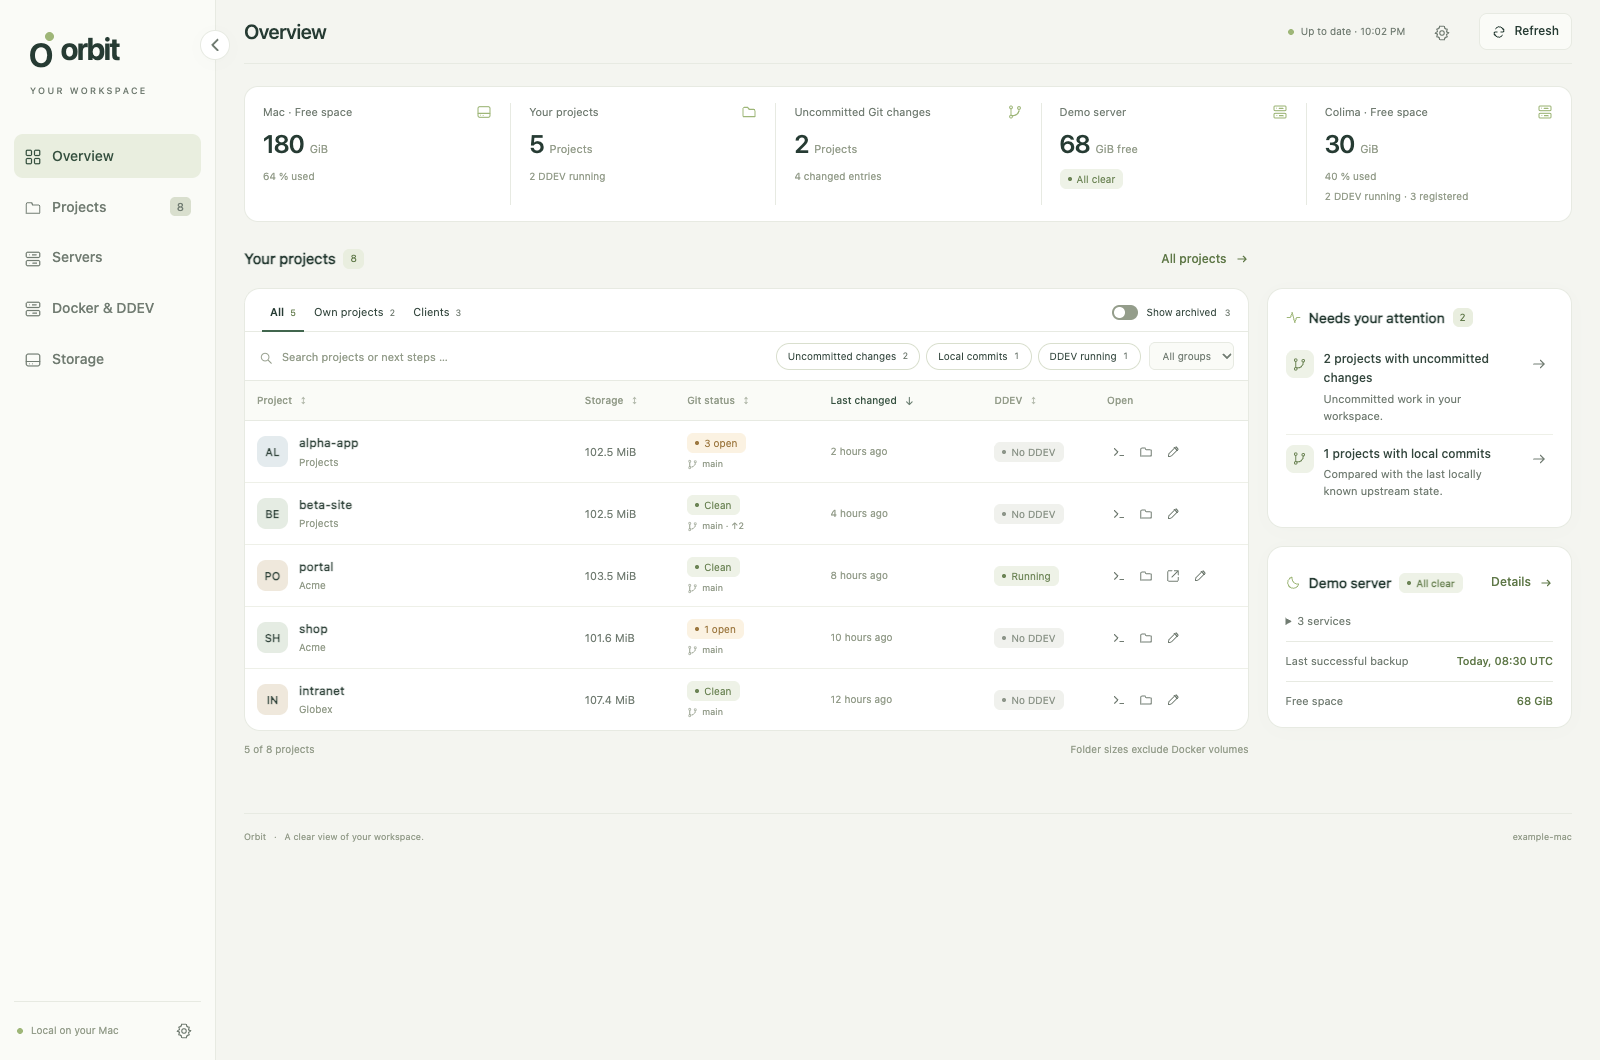
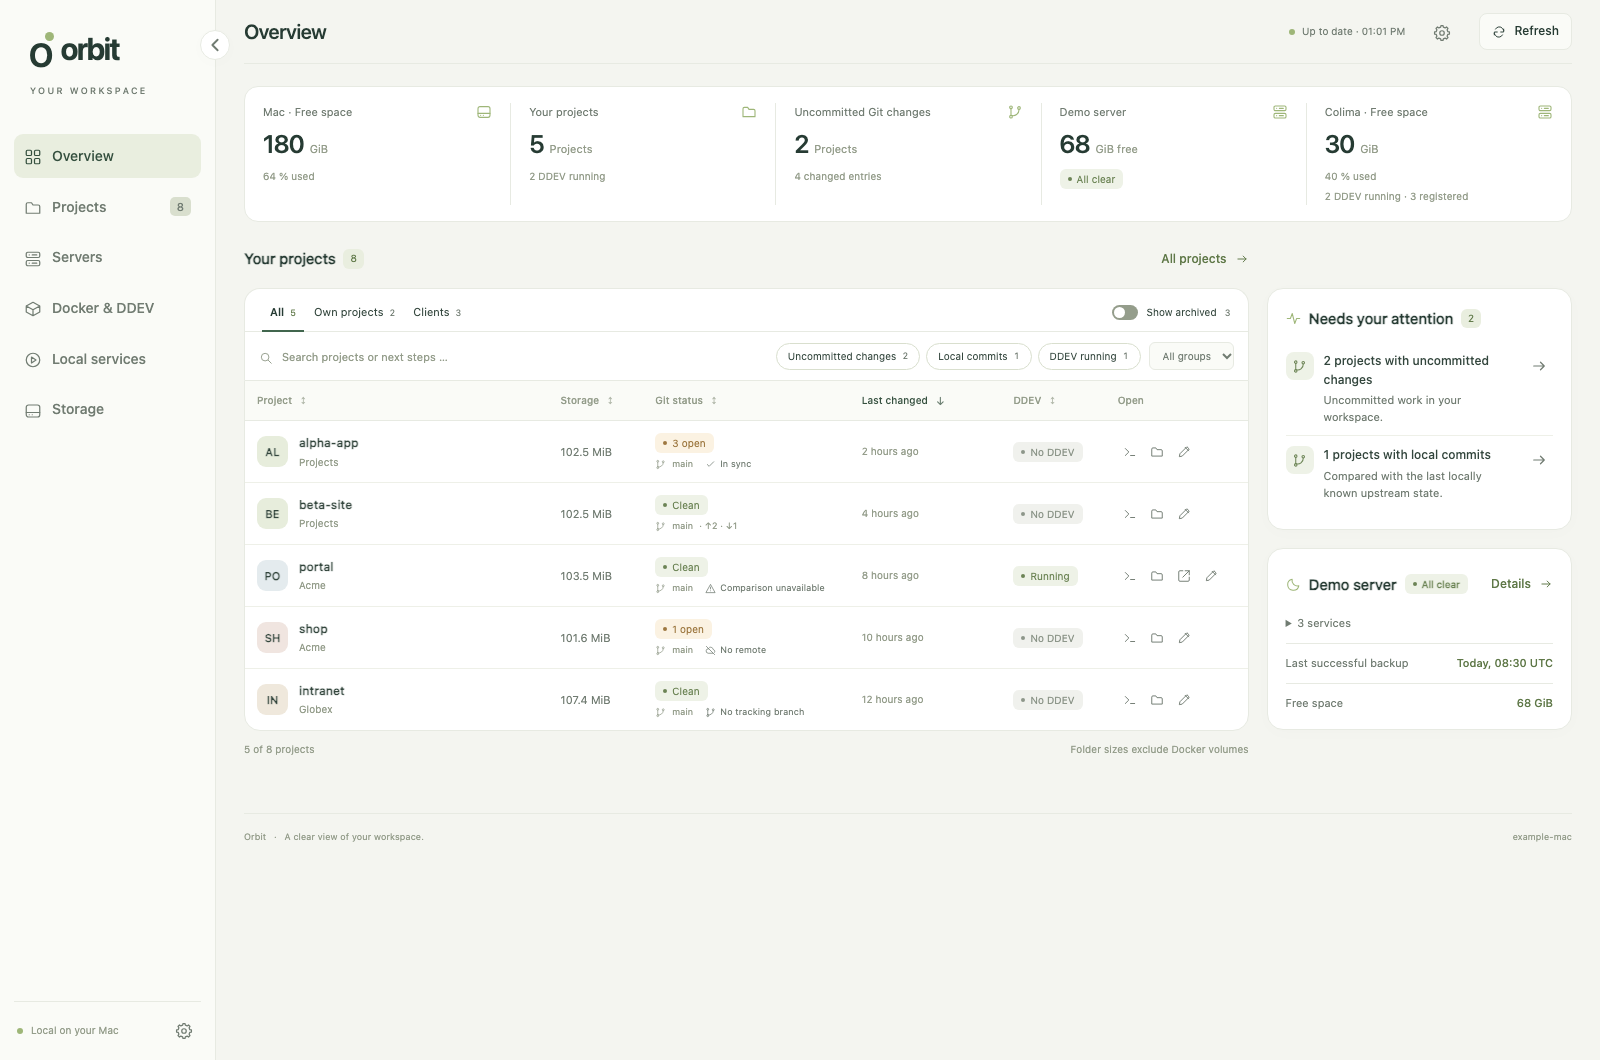
chore(release): prepare v0.1.0-preview.3

diff --git a/docs/release-checklist.md b/docs/release-checklist.md
@@ -1,53 +1,35 @@
-# First public release
+# Source preview releases
 
-See [the latest readiness review](release-readiness.md) for validation and remaining limits.
+Orbit is maintained in the existing public [GitHub repository](https://github.com/morja/orbit-dashboard).
+The retired private development history must remain private. Do not initialize fresh
+history for subsequent public releases or publish a local checkout containing runtime data.
 
-## First preview
+## Prepare
 
-Public repository: [morja/orbit-dashboard](https://github.com/morja/orbit-dashboard).
-The first source prerelease is `v0.1.0-preview.1`. Fresh history, clean exports and
-local verification are complete. The second-Mac setup rehearsal remains open.
-The steps below also apply when preparing later candidates.
+1. Choose the next preview version and update the README download links.
+2. Describe behavior changes, verification and remaining limits in release notes.
+3. Regenerate README screenshots with `scripts/capture-screenshots.cjs` when the UI
+   changes, using only the synthetic fixture. Inspect them before committing.
+4. Use Conventional Commits, including `chore(release): prepare <version>`.
+5. Export committed source outside the checkout with `scripts/export-public.py`.
+   The exporter rejects tracked personal configuration, keys, logs and databases.
+   Review the exact archive; never add `data/`, `AGENTS.local.md`, `.git`, editor
+   configuration or private project screenshots to a release.
 
-## Prepared
+## Verify the exact export
 
-- MIT license, English documentation and optional German interface.
-- Generic settings, optional tools and explicitly enabled SSH collection.
-- AI setup guide and a copyable setup prompt in the README.
-- Synthetic screenshots and tests; local settings, keys and databases excluded.
-- Website link overrides belong to per-server settings. No personal domain behavior.
+- Run `python3 -m unittest discover -s tests`, `npm run check` and `npm run test:browser`.
+- Review public docs and synthetic screenshots. Preserve known compatibility limits.
+- If native code or lifecycle behavior changes, build an isolated app from the export
+  with `macos/build.py --output` and run `tests/native.py --app` against it. Close the
+  installed app first and use synthetic settings; do not replace personal data.
+- A second-Mac setup rehearsal, minimum-version testing and missing-prerequisite
+  installation remain separate compatibility checks. Do not claim them without evidence.
 
-## Before going live
+## Publish
 
-- Verify the native install and AI setup workflow on a second Mac, including missing
-  tools, reopening and backend shutdown. Record macOS/Python versions tested.
-- Export committed source with `python3 scripts/export-public.py /path/to/new/folder`.
-  The exporter rejects tracked local artifacts and never copies history. Do not copy `.git`, local data,
-  `config.json`, `AGENTS.local.md`, editor settings or screenshots of real projects.
-- Review the exact export for personal content and credentials. The private GitLab
-  history contains old personal configuration and must remain private.
-- Initialize fresh Git history and create the public GitHub repository only when
-  the user chooses to go live. Add its actual URL and source download instructions.
-- Run Python, frontend and browser checks from that exact export.
-- Regenerate and inspect screenshots if the visible interface has changed.
-- Tag the first developer preview and state the source/Python requirement clearly.
-
-The private GitLab repository remains the development archive. Do not rewrite or
-publish its history. A bundled Python runtime, signing, notarization and updates
-are separate distribution work, not prerequisites for a source preview.
-
-## Preparing a candidate
-
-Use a new folder outside the development checkout. An existing destination is
-never overwritten. Commit tracked changes first; ignored local data does not enter
-the export. Run the documented checks from that folder. Build an isolated native
-app with `python3 macos/build.py --output /path/to/Orbit-preview.app` and test with
-`python3 tests/native.py --app /path/to/Orbit-preview.app`. Close other Orbit
-instances first because the native app uses port 8765. Use synthetic project
-settings for this check, then remove the test data before preparing Git.
-
-After reviewing the exact candidate, initialize Git locally with a new root commit.
-Do not copy `.git`, add a GitLab remote, or push the private development branch.
-The new repository must have exactly one root commit and no remote until public
-publication is explicitly requested. Adding the GitHub URL and tagging the public
-preview happens at publication time.
+Package the clean source export into a versioned ZIP and provide `SHA256SUMS.txt`.
+Push the release commit, tag its exact revision and create a GitHub prerelease with
+those assets. Verify the published tag and assets after upload. Releases remain
+macOS source distributions requiring Python 3.10+ and Apple Command Line Tools
+for the native window, not standalone signed or notarized applications.

diff --git a/docs/releases/v0.1.0-preview.3.md b/docs/releases/v0.1.0-preview.3.md
@@ -1,0 +1,32 @@
+# Orbit Dashboard · Developer Preview 3
+
+This macOS source preview adds local background-service visibility and a shared
+Git status window, with consistent dashboard typography and distinct navigation icons.
+
+## Changes
+
+- Opt-in Local Services lists launchd definitions and accessible cron jobs, with
+  origin, user/system, type and status filters. Mark your own services, save personal
+  descriptions and pin favorites to Overview. Viewing services does not alter jobs.
+- Project Git status opens one window with Changed files and History tabs. See up
+  to ten local commits, branch/upstream and locally known ahead/behind counts.
+  Hover previews show changed paths or the latest commit with its timestamp.
+- The Git window stays the same size across tabs and remains open during refreshes.
+  Mini previews align with the Git column and appear above their triggers when possible.
+- Shared typography roles and card components align Favorite services with the
+  rest of Overview. Docker uses a cube, Local Services a circled play symbol,
+  and Settings an updated gear.
+- New contributions follow Conventional Commits; published history is preserved.
+
+## Install or update
+
+Extract the source ZIP and follow README.md or its AI setup prompt. Python 3.10+
+is required. Building the native window requires Apple Command Line Tools.
+Existing native users can restart Orbit when their existing source checkout is
+updated in place; rebuild with `python3 macos/build.py` if the source location changes.
+Preserve your existing local data folder, settings and notes when updating.
+
+This remains a source developer preview. The native bundle references its source
+folder and Python interpreter. Signed/notarized standalone downloads, a second-Mac
+setup rehearsal and minimum-version compatibility checks remain future work.
+The ZIP excludes local settings, action keys, notes, databases and Git history.

diff --git a/README.md b/README.md
@@ -14,6 +14,7 @@ Python's standard library powers the backend; a small Swift app provides the nat
 
 - **Projects and Git.** Search, sort and filter projects across your folders. See
   uncommitted work, branches and local commits without fetching or changing repositories.
+  Open the Git status window to switch between changed files and the latest ten commits.
 - **Your next step.** Optional notes, priorities and archive states. Choose which
   table columns you want; paths shorten in the middle and timestamps show relative time.
 - **Docker and DDEV, when you use them.** Filter and sort registered DDEV projects.
@@ -43,7 +44,7 @@ This is a **macOS source distribution**. You need Python 3.10 or newer and Git f
 Git status. Docker, DDEV, Colima and SSH are optional. The native window also needs
 Apple Command Line Tools. Node.js is only needed for frontend development checks.
 
-Download the [Developer Preview](https://github.com/morja/orbit-dashboard/releases/tag/v0.1.0-preview.2)
+Download the [Developer Preview](https://github.com/morja/orbit-dashboard/releases/tag/v0.1.0-preview.3)
 or clone the [repository](https://github.com/morja/orbit-dashboard):
 
 ```sh
@@ -170,7 +171,7 @@ in [docs/screenshots/README.md](docs/screenshots/README.md).
 
 ## Release status and license
 
-[Developer Preview v0.1.0-preview.2](https://github.com/morja/orbit-dashboard/releases/tag/v0.1.0-preview.2)
+[Developer Preview v0.1.0-preview.3](https://github.com/morja/orbit-dashboard/releases/tag/v0.1.0-preview.3)
 is a macOS source release, available under MIT. This repository starts with a clean
 source snapshot and fresh history. It includes no personal settings or workspace data.
 The native setup still needs validation on a second Mac. Signed standalone downloads

diff --git a/CONTRIBUTING.md b/CONTRIBUTING.md
@@ -16,11 +16,23 @@ Run relevant checks, and verify UI changes in both languages and light/dark mode
 Explain the concrete problem, resulting behavior and validation in change proposals.
 Do not contribute personal paths, notes, logs, databases or credentials.
 
-## Before public release
+## Commit messages
 
-- Audit a clean export for personal content. The private development history
-  contains older personal configuration and needs review before publication.
-- Use the release checklist in docs/release-checklist.md. Keep local maintainer rules private.
-- Verify AI setup on a second Mac.
-- Add the public repository address and download instructions.
-- Distinguish source distribution from a future standalone signed app.
+Use Conventional Commits for new work:
+
+```text
+feat(git): add recent commit history
+fix(ui): keep Git status dialog size stable
+docs: clarify local setup requirements
+chore(release): prepare v0.1.0-preview.3
+```
+
+The format is `type(scope): description`; scope is optional. Use a short English
+imperative description without a final period. Supported types are `feat`, `fix`,
+`docs`, `style`, `refactor`, `perf`, `test`, `build`, `ci`, `chore` and `revert`.
+Use `!` before the colon and a `BREAKING CHANGE:` footer for incompatible changes.
+These conventions apply to new commits; published history is preserved.
+
+Use [the release checklist](docs/release-checklist.md) to prepare a clean source
+preview, validate its exact export and publish it to the existing public repository.
+Local maintainer instructions and runtime data must remain private.

diff --git a/docs/release-readiness.md b/docs/release-readiness.md
@@ -78,3 +78,18 @@ isolated app identity and the virtual environment's interpreter.
 This is a clean local setup rehearsal, not a second-Mac or clean macOS installation.
 Python and Apple developer tools were already installed. Missing-prerequisite
 installation and compatibility with the minimum Python version remain unverified.
+
+## Developer Preview 3
+
+Prepared on 11 October 2026 from the maintained public checkout. This preview adds
+Local Services, the shared Git status window, mini previews and shared typography.
+All four public README screenshots were regenerated from synthetic fixture data;
+the light/dark overview images were visually reviewed. Conventional Commits are
+now documented in AGENTS.md and CONTRIBUTING.md. Existing Git history is preserved.
+
+The release checklist now describes subsequent releases from the public repository
+rather than repeating the first-publication history reset. The source ZIP is built
+from a clean committed export; run Python, frontend and browser checks against that
+exact export before publishing. Native code is unchanged from Preview 2, so this
+release retains its native-lifecycle evidence and compatibility limits rather than
+claiming another native build or a second-Mac rehearsal.

diff --git a/AGENTS.md b/AGENTS.md
@@ -34,3 +34,15 @@ The native Mac app starts server.py --managed when opened and stops its owned
 process group when closed. Static changes need a reload; backend changes need
 an app restart; native changes need a rebuild. Do not leave a manual production
 backend running. Synthetic fixture servers are allowed for isolated checks.
+
+## Commit messages
+
+Use Conventional Commits for new commits: `type(scope): description`. Write the
+short imperative description in English. Use `feat`, `fix`, `docs`, `style`,
+`refactor`, `perf`, `test`, `build`, `ci`, `chore` or `revert`; scope is optional.
+Use `!` and a `BREAKING CHANGE:` footer for incompatible changes. Release commits
+use `chore(release): prepare <version>`. Do not rewrite published history to
+retrofit this convention. See CONTRIBUTING.md for examples.
+
+Frontend changes must follow docs/ui-style.md and reuse shared typography tokens
+and components for equivalent elements across views.
